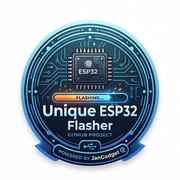
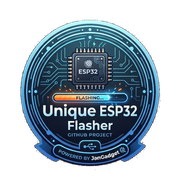
feat: show live latest version and release notes per project
Fetches each repo's latest release from the GitHub API client-side and
displays the version tag as a badge plus a collapsible release-notes
panel, so the page always reflects the actual latest release without
needing manual edits here.

Also: swap in the transparent-background version of the logo (shown
larger in the header, no more circular crop needed) and drop the now
unused JPEG/crop source.

diff --git a/index.html b/index.html
@@ -65,17 +65,14 @@
       }
 
       .logo-dot {
-        width: 48px;
-        height: 48px;
-        border-radius: 50%;
+        height: 96px;
         flex: none;
         display: block;
       }
       .logo-dot img {
-        width: 100%;
         height: 100%;
-        border-radius: 50%;
-        object-fit: cover;
+        width: auto;
+        display: block;
       }
 
       h1 {
@@ -125,6 +122,55 @@
 
       .card a:hover {
         text-decoration: underline;
+      }
+
+      .version-row {
+        display: flex;
+        align-items: center;
+        gap: 12px;
+        margin-bottom: 14px;
+      }
+
+      .version-badge {
+        display: inline-block;
+        font-size: 0.8rem;
+        font-weight: 600;
+        letter-spacing: 0.01em;
+        color: var(--accent);
+        background: #4fc3f71a;
+        border: 1px solid #4fc3f73a;
+        padding: 3px 10px;
+        border-radius: 999px;
+      }
+
+      .notes-toggle {
+        appearance: none;
+        background: none;
+        border: none;
+        cursor: pointer;
+        font-family: inherit;
+        font-size: 0.82rem;
+        color: var(--text-dim);
+        text-decoration: underline;
+        padding: 0;
+      }
+
+      .notes-toggle:hover {
+        color: var(--text-mute);
+      }
+
+      .release-notes {
+        white-space: pre-wrap;
+        font-family: inherit;
+        font-size: 0.85rem;
+        color: var(--text-mute);
+        background: #00000030;
+        border: 1px solid var(--border);
+        border-radius: 10px;
+        padding: 12px 14px;
+        margin: 0 0 16px;
+        max-height: 220px;
+        overflow-y: auto;
       }
 
       /* The activate button is our own <button>, slotted into the web
@@ -199,7 +245,7 @@
   <body>
     <div class="wrap">
       <header>
-        <div class="logo-dot"><img src="static/logo.jpg" alt="Unique ESP32 Flasher logo" /></div>
+        <div class="logo-dot"><img src="static/logo.png" alt="Unique ESP32 Flasher logo" /></div>
         <h1>Unique ESP32 Flasher</h1>
       </header>
       <p class="sub">
@@ -223,13 +269,18 @@
         }
       </script>
 
-      <div class="card">
+      <div class="card" data-repo="UniqueDroid/pfsense-status-esp32">
         <h2>pfSense Status</h2>
         <p>
           Live pfSense WAN/gateway status, system load and traffic on a TFT
           display.
           <a href="https://github.com/UniqueDroid/pfsense-status-esp32">Source &amp; docs</a>
         </p>
+        <div class="version-row">
+          <span class="version-badge">Checking latest version…</span>
+          <button class="notes-toggle" type="button" hidden>Release notes</button>
+        </div>
+        <pre class="release-notes" hidden></pre>
         <esp-web-install-button manifest="manifests/pfsense-status-esp32.json">
           <button class="flash-btn" slot="activate">Install pfSense Status</button>
           <span slot="unsupported">Your browser does not support Web Serial. Use Chrome or Edge on desktop.</span>
@@ -237,13 +288,18 @@
         </esp-web-install-button>
       </div>
 
-      <div class="card">
+      <div class="card" data-repo="UniqueDroid/fritzbox-status-esp32">
         <h2>FRITZ!Box Status</h2>
         <p>
           Live FRITZ!Box WAN/gateway status, traffic and connection quality
           on a TFT display.
           <a href="https://github.com/UniqueDroid/fritzbox-status-esp32">Source &amp; docs</a>
         </p>
+        <div class="version-row">
+          <span class="version-badge">Checking latest version…</span>
+          <button class="notes-toggle" type="button" hidden>Release notes</button>
+        </div>
+        <pre class="release-notes" hidden></pre>
         <esp-web-install-button manifest="manifests/fritzbox-status-esp32.json">
           <button class="flash-btn" slot="activate">Install FRITZ!Box Status</button>
           <span slot="unsupported">Your browser does not support Web Serial. Use Chrome or Edge on desktop.</span>
@@ -257,5 +313,36 @@
         Powered by JanGadget.
       </p>
     </div>
+    <script>
+      document.querySelectorAll(".card[data-repo]").forEach(async (card) => {
+        const repo = card.dataset.repo;
+        const badge = card.querySelector(".version-badge");
+        const toggle = card.querySelector(".notes-toggle");
+        const notes = card.querySelector(".release-notes");
+        try {
+          const res = await fetch(`https://api.github.com/repos/${repo}/releases/latest`);
+          if (!res.ok) throw new Error("bad response");
+          const data = await res.json();
+          badge.textContent = `Latest: ${data.tag_name}`;
+          const body = (data.body || "").trim();
+          if (body) {
+            notes.textContent = body;
+            toggle.hidden = false;
+            toggle.addEventListener("click", () => {
+              const isHidden = notes.hasAttribute("hidden");
+              if (isHidden) {
+                notes.removeAttribute("hidden");
+                toggle.textContent = "Hide release notes";
+              } else {
+                notes.setAttribute("hidden", "");
+                toggle.textContent = "Release notes";
+              }
+            });
+          }
+        } catch (e) {
+          badge.textContent = "Version unavailable";
+        }
+      });
+    </script>
   </body>
 </html>
